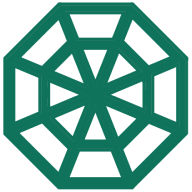
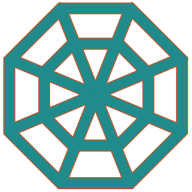
updates

diff --git a/manifest.php b/manifest.php
@@ -56,7 +56,7 @@ echo json_encode([
             "sizes" => "192x192"
         ],
         [
-            "src" => "/assets/img/icon-512x512.png",
+            "src" => "/assets/img/pwa-bold-monocolor-512.png",
             "type" => "image/png",
             "sizes" => "512x512"
         ]
